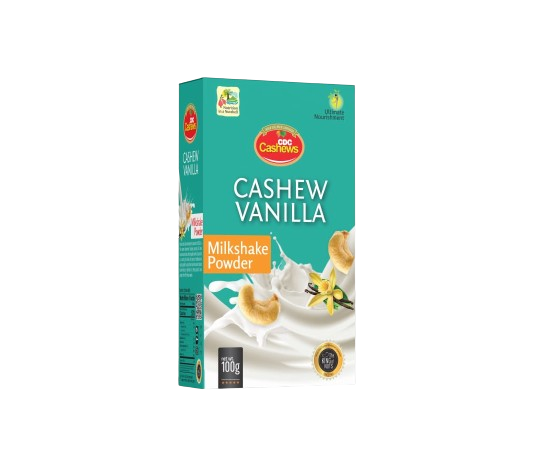
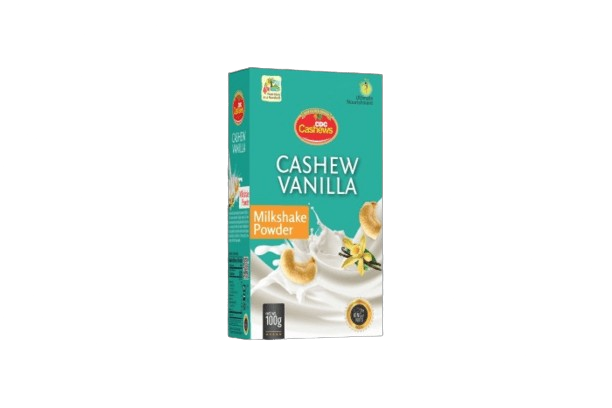
feature: product image height corrected and added stopping when hover

Changed region(s): [[0.3296, 0.1471, 0.6891, 0.8529], [0.4494, 0.2647, 0.5693, 0.3529]]

diff --git a/src/Pages/Home/About.jsx b/src/Pages/Home/About.jsx
@@ -17,7 +17,9 @@ function About() {
                 Welcome to KSCDC
               </span>
             </div>
-            <h2 className="text-xl max-w-md text-balance text-blue-500">About Us </h2>
+            <h2 className="text-xl max-w-md text-balance text-blue-500">
+              About Us{" "}
+            </h2>
             <p className="text-balance max-w-4xl text-xl text-gray-700 mt-6 mb-6">
               The Kerala State Cashew Development Corporation Limited (KSCDC)
               was incorporated in July 1969 and started Commercial activities in
@@ -47,8 +49,7 @@ function About() {
             <div className="grid gap-4 grid-cols-2">
               <div
                 data-aos="fade-right"
-                data-aos-offset="600"
-            data-aos-easing="ease-in-sine"
+               
                 className="h-56 w-full aspect-square bg-white shadow-lg flex items-center justify-center"
               >
                 <h3 className="text-xl font-bold text-red-500 text-center">
@@ -57,16 +58,14 @@ function About() {
               </div>
               <div
                 data-aos="fade-left"
-                data-aos-offset="600"
-            data-aos-easing="ease-in-sine"
+             
                 className="h-56 w-full aspect-square lg:mt-4 bg-white shadow-lg flex items-center justify-center"
               >
                 <h3 className="text-xl font-bold text-red-500">Tender</h3>
               </div>
               <div
                 data-aos="fade-up"
-                data-aos-offset="600"
-            data-aos-easing="ease-in-sine"
+         
                 className="h-56 w-full aspect-square bg-white shadow-lg flex items-center justify-center"
               >
                 <h3 className="text-xl font-bold text-red-500  text-center">
@@ -75,7 +74,7 @@ function About() {
               </div>
               <div
                 data-aos="fade-up"
-                data-aos-delay="300"
+          
                 className="h-56 w-full aspect-square lg:mt-4 bg-white shadow-lg flex items-center justify-center"
               >
                 <h3 className="text-xl font-bold text-red-500">Tender</h3>

diff --git a/src/Pages/Home/style/product.css b/src/Pages/Home/style/product.css
@@ -1,18 +1,18 @@
 @import url('https://fonts.googleapis.com/css?family=Montserrat');
 
-
 :root {
   --marquee-width: 80vw;
   --marquee-height: 20vh;
   --marquee-elements-displayed: 5;
   --marquee-element-width: calc(var(--marquee-width) / var(--marquee-elements-displayed));
-  --marquee-animation-duration: calc(var(--marquee-elements) * 3s);
+  --marquee-animation-duration: calc(var(--marquee-elements-displayed) * 3s);
 }
 
 .marquee {
   overflow: hidden;
   position: relative;
 }
+
 .marquee:before, .marquee:after {
   position: absolute;
   top: 0;
@@ -21,32 +21,33 @@
   content: "";
   z-index: 1;
 }
+
 .marquee-content {
   list-style: none;
   height: 100%;
   display: flex;
   animation: scrolling var(--marquee-animation-duration) linear infinite;
+  animation-play-state: running; /* Initially running */
+}
+
+.marquee:hover .marquee-content {
+  animation-play-state: paused; /* Paused on hover */
 }
 
 @keyframes scrolling {
   0% { transform: translateX(0); }
-  100% { transform: translateX(calc(-1 * var(--marquee-element-width) * var(--marquee-elements))); }
+  100% { transform: translateX(calc(-1 * var(--marquee-element-width) * var(--marquee-elements-displayed))); }
 }
+
 .marquee-content li {
   display: flex;
   justify-content: center;
   align-items: center;
   flex-shrink: 0;
   width: var(--marquee-element-width);
-  /* max-height: 100%; */
-  font-size: calc(var(--marquee-height)*3/4);
+  font-size: calc(var(--marquee-height) * 3 / 4);
   white-space: nowrap;
 }
-
-/* .marquee-content li img {
-  width: 100%;
-  height: 100%;
-} */
 
 @media (max-width: 600px) {
   html { font-size: 12px; }

diff --git a/src/Pages/Home/Product.jsx b/src/Pages/Home/Product.jsx
@@ -41,7 +41,7 @@ const Product = () => {
       <ul className="marquee-content">
         {Array.from({ length: 12 }).map((_, index) => (
           <li>
-            <div className="bg-white shadow-lg h-64 flex flex-col items-center">
+            <div className="bg-white shadow-lg h-80 flex flex-col items-center justify-center">
             <img
               src={`images/products/product-${index + 1}.png`}
               alt="Product"
